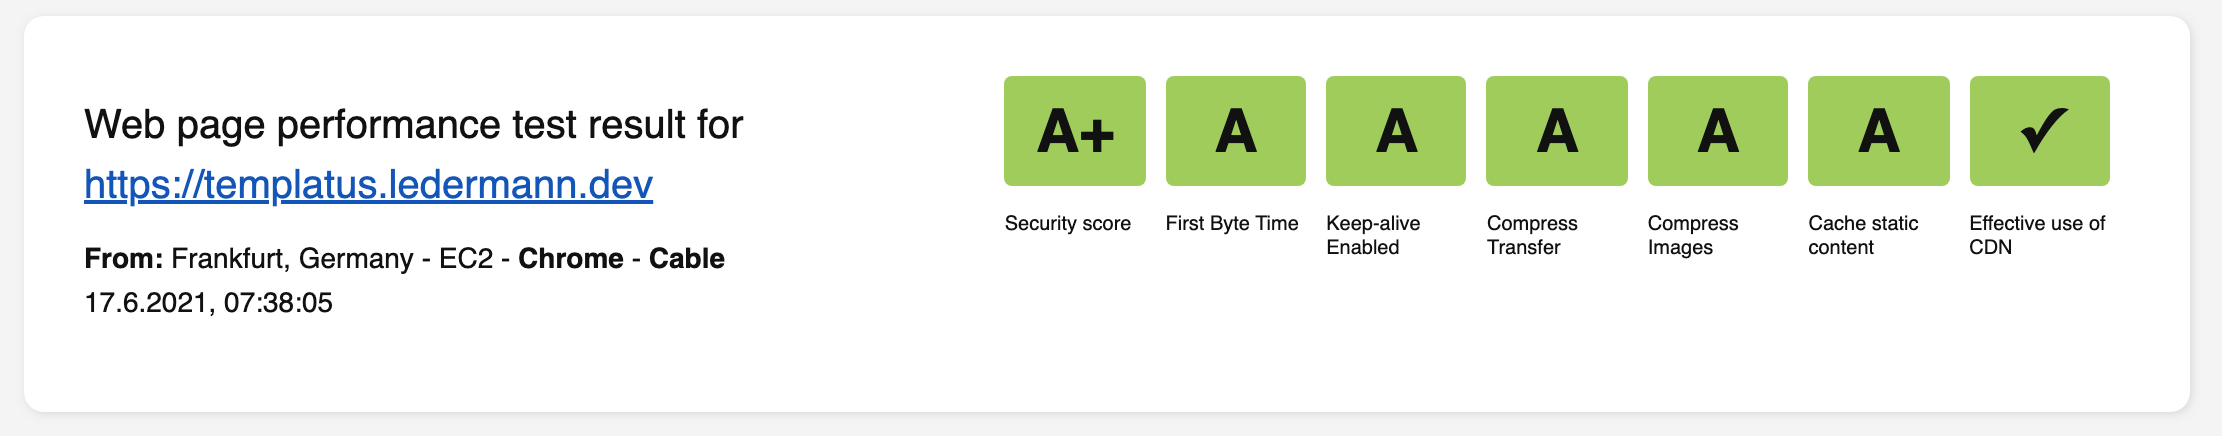
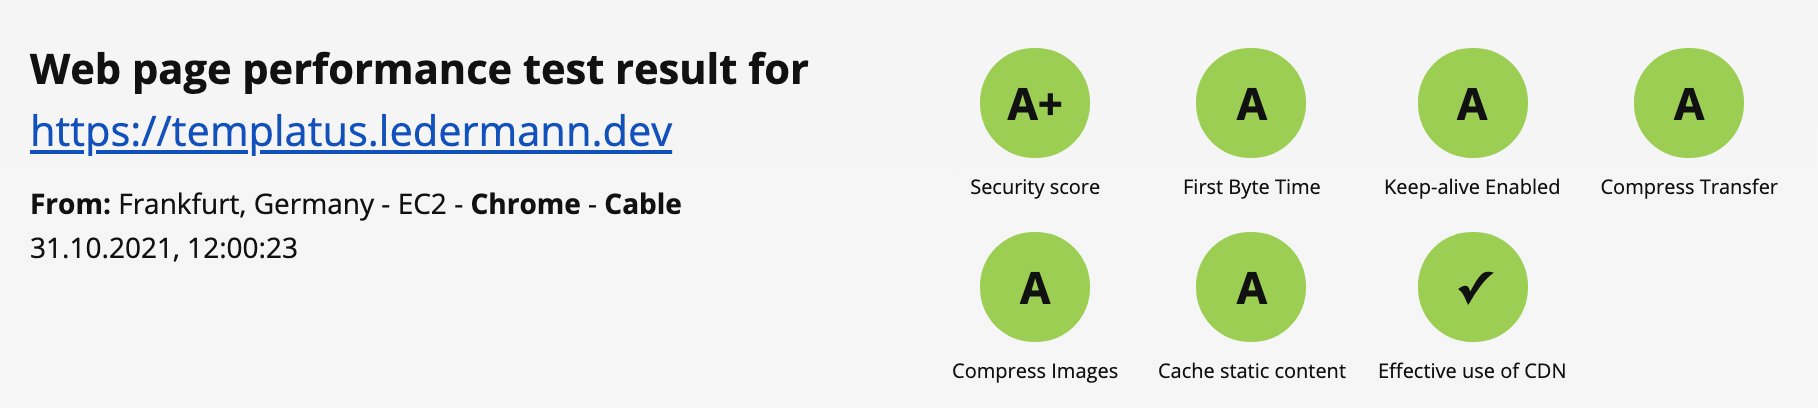
Update metrics

diff --git a/README.md b/README.md
@@ -87,11 +87,11 @@ Why is there a failing test? It's about missing [Subresource Integrity](https://
 
 ### WebPageTest
 
-[![WebPageTest](docs/web-page-test.png)](https://webpagetest.org/result/210617_BiDcHH_d4cdb2af33ac2a7a9e4b66908ee3002f/)
+[![WebPageTest](docs/web-page-test.png)](https://webpagetest.org/result/211031_BiDcEW_766a9f225f0ae81c9bc42bdff4f726c3/)
 
 ### GTmetrix
 
-[![GTmetrix](docs/GTmetrix.png)](https://gtmetrix.com/reports/templatus.ledermann.dev/BfWVNIIb/)
+[![GTmetrix](docs/GTmetrix.png)](https://gtmetrix.com/reports/templatus.ledermann.dev/0tAiViV6/)
 
 ### Check-your-website
 
